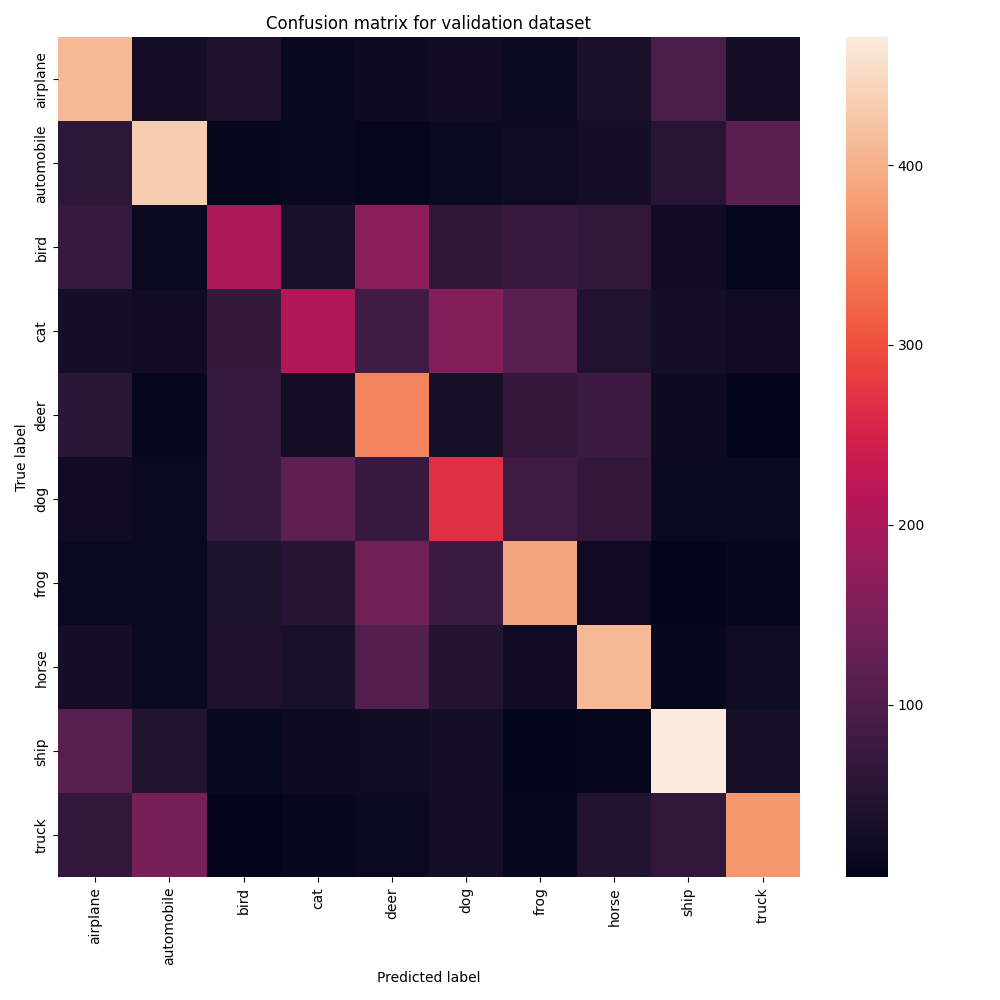
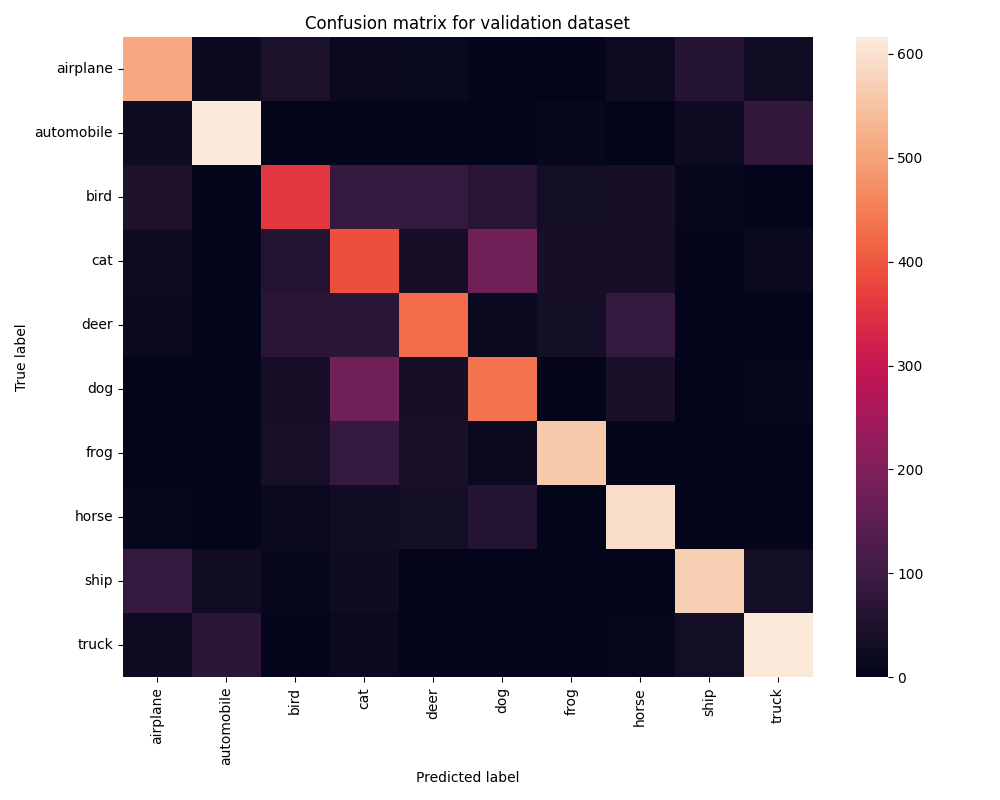
Refactor model architecture to use Convolutional Neural Network; update training parameters and evaluation metrics

diff --git a/src/exercise_05/model.py b/src/exercise_05/model.py
@@ -45,24 +45,48 @@ class MultiLayerPerceptron(nn.Module): # Hereda de nn.Module, es un requisito
             x = self.activation(x)
         return x
 
-class MultiLayerPerceptron_05(nn.Module): # Hereda de nn.Module, es un requisito
-    """ 
-    Modelo de perceptrón multicapa con 2 capas ocultas para exercise_05:
-        input -> fc1 -> ReLU -> fc2 -> ReLU -> fc3 (salida)
-    """
-    def __init__(self, input_dim, output_dim, num_hidden_neurons): # Parametros de entrada y salida
-        super().__init__() # Es necesario
-        self.flatten = nn.Flatten() # Aplanar la imagen de 3D a 1D para que pueda ser procesada por las capas lineales
-        self.fc1 = nn.Linear(input_dim, num_hidden_neurons) # Capa fully conected (lineal)
-        self.fc2 = nn.Linear(num_hidden_neurons, num_hidden_neurons)
-        self.fc3 = nn.Linear(num_hidden_neurons, output_dim)
 
-    def forward(self, x): # Se pone la última ReLU a False para que la salida pueda ser positiva o negativa, ya que la función original tiene valores positivos y negativos
-        x = self.flatten(x) # Aplanar la imagen de 3D a 1D
-        x = F.relu(self.fc1(x)) # Primera transformación lineal + activación ReLU
-        x = F.relu(self.fc2(x)) # Segunda transformación lineal + activación ReLU
-        x = self.fc3(x) # Capa de salida sin activación, ya que es un problema de clasificación y se usará CrossEntropyLoss que incluye softmax
+class ConvolutionalNeuralNetwork(nn.Module): # Hereda de nn.Module, es un requisito
+    """
+    Modelo de red concolucional con 2 capas ocultas para exercise_05:
+        Input (3x32x32) -> Conv(3→32) + ReLU -> MaxPool (↓ tamaño a 16x16) -> Conv(32→64) + ReLU -> MaxPool (↓ tamaño a 8x8) -> Flatten -> Linear + ReLU -> Dropout -> Linear
+    """
+
+    def __init__(self, output_dim, num_hidden_neurons): # Parametros de salida y número de neuronas en las capas ocultas
+        super().__init__()
+
+        # Bloque convolucional 1
+        self.conv1 = nn.Conv2d(3, 32, kernel_size=3, padding=1) # Conv2d(in_channels, out_channels, kernel_size, padding).
+        self.pool1 = nn.MaxPool2d(2, 2) # MaxPool2d(kernel_size, stride). Reduce el tamaño de la imagen a la mitad (de 32x32 a 16x16) y se queda con la información más importante de cada bloque de 2x2 píxeles. Esto ayuda a reducir el número de parámetros y a evitar el overfitting.
+
+        # Bloque convolucional 2
+        self.conv2 = nn.Conv2d(32, 64, kernel_size=3, padding=1)
+        self.pool2 = nn.MaxPool2d(2, 2)
+
+        # Clasificador
+        self.flatten = nn.Flatten() # Aplanar la imagen de 3D a 1D para que pueda ser procesada por las capas lineales
+        self.fc1 = nn.Linear(64 * 8 * 8, num_hidden_neurons) # Capa fully conected (lineal)
+        self.dropout = nn.Dropout(p=0.5) # Dropout para evitar el overfitting
+        self.fc2 = nn.Linear(num_hidden_neurons, output_dim)
+
+    def forward(self, x):
+
+        # Bloque 1
+        x = F.relu(self.conv1(x)) # Primera transformación lineal + activación ReLU
+        x = self.pool1(x)
+
+        # Bloque 2
+        x = F.relu(self.conv2(x))
+        x = self.pool2(x)
+
+        # Clasificador
+        x = self.flatten(x)
+        x = F.relu(self.fc1(x))
+        x = self.dropout(x)
+        x = self.fc2(x) # logits (sin softmax)
+
         return x
+
 
 if __name__ == "__main__": # Para probar si el modelo funciona
     model = SimplePerceptron(1, 1)

diff --git a/src/exercise_05/train.py b/src/exercise_05/train.py
@@ -11,7 +11,7 @@ from torchvision import transforms
 from tqdm import tqdm
 
 from dataset import CIFAR10Dataset
-from model import MultiLayerPerceptron_05
+from model import ConvolutionalNeuralNetwork
 
 
 def get_device(force: str = "auto") -> torch.device:
@@ -42,7 +42,7 @@ def train_model(output_folder: Path, device: torch.device):
     train_dataset, val_dataset, test_dataset = random_split(dataset, [train_size, val_size, test_size])
 
     # Create DataLoaders for the datasets
-    batch_size=10
+    batch_size=64
     pin_memory = True if device.type == "cuda" else False
     train_loader = DataLoader(train_dataset, batch_size=batch_size, shuffle=True, pin_memory=pin_memory)
     val_loader = DataLoader(val_dataset, batch_size=batch_size, shuffle=False, pin_memory=pin_memory)
@@ -51,14 +51,15 @@ def train_model(output_folder: Path, device: torch.device):
     # Define the model, loss function, and optimizer
     input_dim=3*32*32 # Las imagenes CIFAR-10 son de 32x32 píxeles con 3 canales (RGB)
     output_dim=10 # CIFAR-10 tiene 10 clases
-    num_hidden_neurons=128 # Número de neuronas en las capas ocultas
+    num_hidden_neurons=64 # Número de neuronas en las capas ocultas
     lr=0.001 # Learning rate (tasa de aprendizaje)
-    model = MultiLayerPerceptron_05(input_dim=input_dim, output_dim=output_dim, num_hidden_neurons=num_hidden_neurons).to(device)
+    # model = MultiLayerPerceptron_05(input_dim=input_dim, output_dim=output_dim, num_hidden_neurons=num_hidden_neurons).to(device)
+    model = ConvolutionalNeuralNetwork(output_dim=output_dim, num_hidden_neurons=num_hidden_neurons).to(device)
     criterion = nn.CrossEntropyLoss() # Función de pérdida. Se usa CrossEntropyLoss porque es un problema de clasificación
     optimizer = optim.AdamW(model.parameters(), lr=lr) # AdamW es el algoritmo de optimización que se usará para actualizar los pesos del modelo durante el entrenamiento
 
     # Training loop with validation and saving best weights
-    num_epochs = 200 # Aumentamos de 100 a 200 porque el loss seguía bajando
+    num_epochs = 30
     best_val_loss = float("inf")
     best_model_path = output_folder / "best_model.pth"
 
@@ -143,3 +144,6 @@ if __name__ == "__main__":
     # Con 128 neuronas y 200 epocas: Best validation loss: 15015
     # Con 128 neuronas y 300 epocas: Best validation loss: 15015
     # Con 256 neuronas y 100 epocas: Best validation loss: 15090
+    # con una cnn se han bajdo las epocas ya que empezaba a memorizar, también se bajan las neuronas en la fullyconected
+    # se bajan las neuronas a 64 para evitar el overfitting
+    

diff --git a/src/exercise_05/evaluate.py b/src/exercise_05/evaluate.py
@@ -12,7 +12,7 @@ from torch.utils.data import DataLoader, random_split
 from torchvision import transforms
 
 from dataset import CIFAR10Dataset
-from model import MultiLayerPerceptron_05
+from model import ConvolutionalNeuralNetwork
 
 
 def get_device(force: str = "auto") -> torch.device:
@@ -96,7 +96,7 @@ def evaluate_and_plot(loader, model, dataset_name, output_folder, device, class_
     for t, p in zip(all_targets, y_pred):
         cm[int(t), int(p)] += 1
 
-    plt.figure(figsize=(10, 10))
+    plt.figure(figsize=(10, 8))
     sns.heatmap(cm, annot=False, fmt="d", xticklabels=class_names, yticklabels=class_names)
     plt.title(f"Confusion matrix for {dataset_name} dataset")
     plt.ylabel("True label")
@@ -117,7 +117,7 @@ def save_metrics_as_picture(metrics, filepath):
     df = df.round(3)
 
     # Plot the table and save as an image
-    fig, ax = plt.subplots(figsize=(8, 2))  # set size frame
+    fig, ax = plt.subplots(figsize=(8, 2)) # set size frame
     ax.axis("tight")
     ax.axis("off")
     table = ax.table(
@@ -152,7 +152,7 @@ if __name__ == "__main__":
     train_dataset, val_dataset, test_dataset = random_split(dataset, [train_size, val_size, test_size])
 
     # Create DataLoaders for the datasets
-    batch_size=10
+    batch_size=64
     pin_memory = True if device.type == "cuda" else False
     train_loader = DataLoader(train_dataset, batch_size=batch_size, shuffle=True, pin_memory=pin_memory)
     val_loader = DataLoader(val_dataset, batch_size=batch_size, shuffle=False, pin_memory=pin_memory)
@@ -161,8 +161,8 @@ if __name__ == "__main__":
     # Load the best model weights
     input_dim=3*32*32 # Las imagenes CIFAR-10 son de 32x32 píxeles con 3 canales (RGB)
     output_dim=10 # CIFAR-10 tiene 10 clases
-    num_hidden_neurons=128 # Número de neuronas en las capas ocultas
-    model = MultiLayerPerceptron_05(input_dim=input_dim, output_dim=output_dim, num_hidden_neurons=num_hidden_neurons).to(device)
+    num_hidden_neurons=64 # Número de neuronas en las capas ocultas
+    model = ConvolutionalNeuralNetwork(output_dim=output_dim, num_hidden_neurons=num_hidden_neurons).to(device)
     model.load_state_dict(torch.load(output_folder / "best_model.pth", map_location=device, weights_only=True))
 
     class_names = dataset.data.classes

diff --git a/src/exercise_05/readme_exercise.md b/src/exercise_05/readme_exercise.md
@@ -72,7 +72,7 @@ Escribe tu respuesta aquí.
 
 ### Grafo de la función de pérdida
 
-![image](../../outs/exercise_03/loss_plot.png)
+![image](../../outs/exercise_05/loss_plot.png)
 
 ### Discusión sobre el proceso de entrenamiento
 
@@ -82,17 +82,11 @@ Escribe tu respuesta aquí.
 
 ### Métricas de evaluacións
 
-Escribe tu respuesta aquí.
-
-![image](../../outs/exercise_04/train_regression_plot.png)
-
-![image](../../outs/exercise_04/validation_regression_plot.png)
-
-![image](../../outs/exercise_04/test_regression_plot.png)
+Escribe tu respuesta aquí. [VER SI HAY MÁS FORMAS DE VER ESTO GRÁFICAMENTE]
 
 Las métricas de cada conjunto de datos se representan:
 
-![image](../../outs/exercise_04/metrics.png)
+![image](../../outs/exercise_05/metrics.png)
 
 ### Evaluación de los resultados
 
@@ -100,15 +94,15 @@ Aquí tenéis ejemplos de resultados de evaluación para conjuntos de entrenamie
 
 Ejemplo para el conjunto de entrenamiento:
 
-![image](../../outs/exercise_04/train_data_points_plot.png)
+![image](../../outs/exercise_05/train_confusion_matrix.png)
 
 Ejemplo para el conjunto de validación:
 
-![image](../../outs/exercise_04/validation_data_points_plot.png)
+![image](../../outs/exercise_05/validation_confusion_matrix.png)
 
 Ejemplo para el conjunto de pruebas:
 
-![image](../../outs/exercise_04/test_data_points_plot.png)
+![image](../../outs/exercise_05/test_confusion_matrix.png)
 
 ### Discusión de los resultados
 
